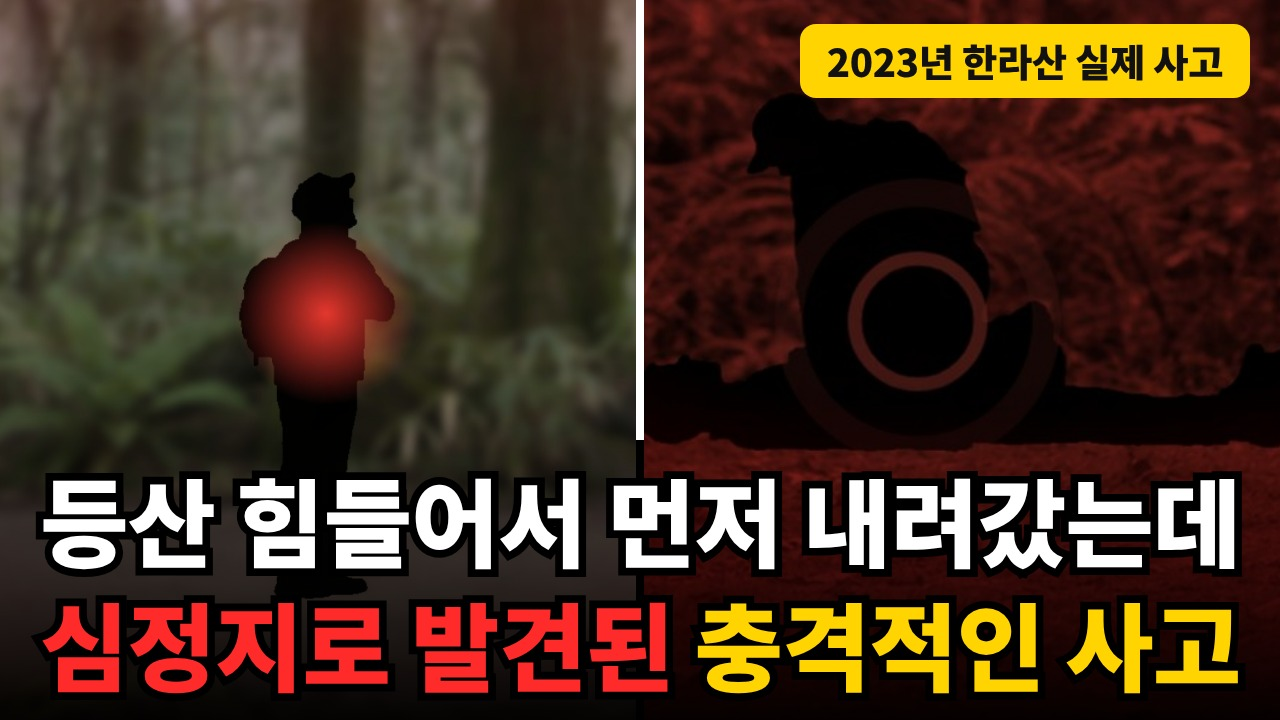
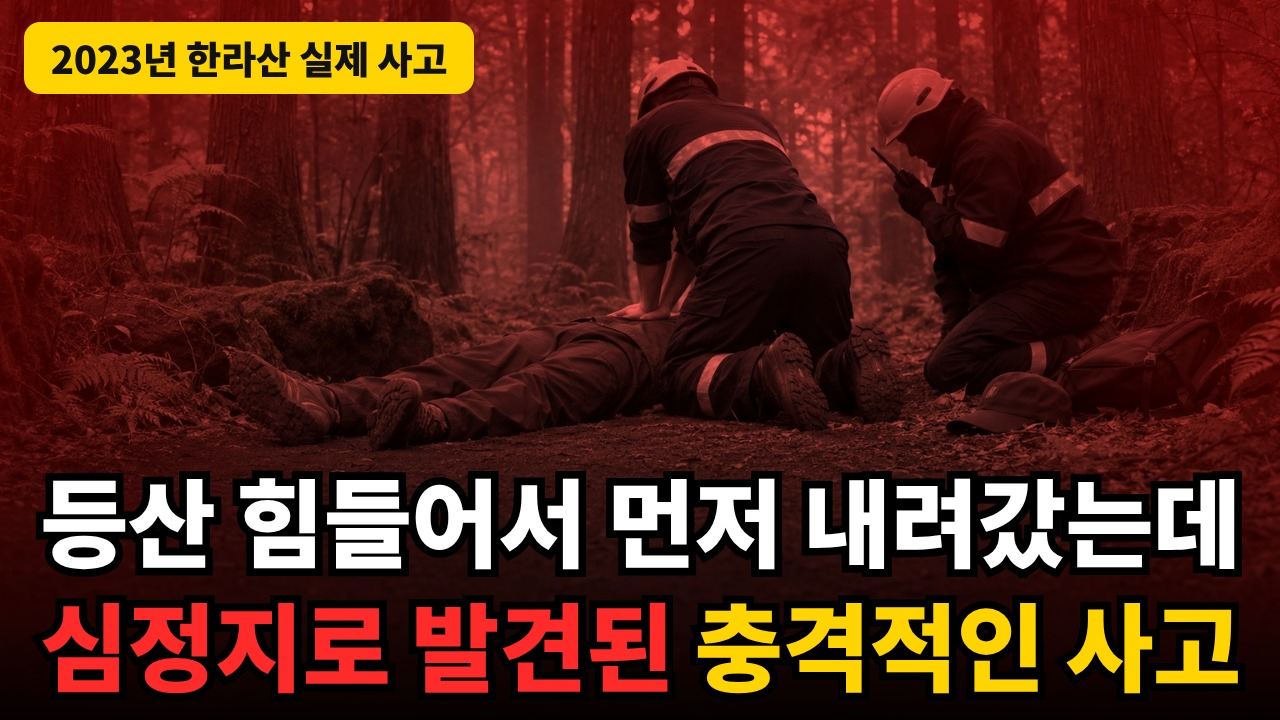
crisis 한라산 편: 썸네일 = 상황 대비 (ChatGPT TH-CONTRAST · 사고 쪽 빨갛게 TH-CONTRAST-FX) · 실험 1 사고 장면(TH-ACCIDENT-FX) · 실험 2 대비 원본 빛깔 · 업로드 시트 v1.4
Claude-Session: https://claude.ai/code/session_01PYG2MrtkzTLLkg9HhkG35k

diff --git a/crisis/source/hallasan-simjeongji-2026-11/upload.md b/crisis/source/hallasan-simjeongji-2026-11/upload.md
@@ -1,6 +1,7 @@
 # hallasan-simjeongji-2026-11 업로드 시트 (롱폼 · 위기 상황)
 
-버전: v1.3 — 2026-11-27 — 제목·썸네일 문구 = 사용자 문구 「등산 힘들어서 먼저 내려갔는데 / 심정지로 발견된 충격적인 사고」 (사용자 지시 "…제목, 썸네일 문구 둘다 이걸로 가자 그리고 이미지 좀 영상처럼 검은 실루엣, 이펙트로 표현해야지 실사 말고 다시 명령 알려줘") · 썸네일 그림 = 영상 꼴(검은 실루엣 + 효과) — 지금은 완성 영상 장면 프레임, ChatGPT 실루엣 그림 2장(images_chatgpt_thumb.md v2.0)이 오면 바꿈.
+버전: v1.4 — 2026-11-27 — 썸네일 = 상황 대비 그림 (사용자 지시 "이미지 올렸어 확인해서 썸네일 다시 만들어 상황 대비되는 이미지로" — ChatGPT TH-CONTRAST · TH-ACCIDENT, 사고 쪽은 빨갛게).
+이전 v1.3 — 2026-11-27 — 제목·썸네일 문구 = 사용자 문구 「등산 힘들어서 먼저 내려갔는데 / 심정지로 발견된 충격적인 사고」 (사용자 지시 "…제목, 썸네일 문구 둘다 이걸로 가자 그리고 이미지 좀 영상처럼 검은 실루엣, 이펙트로 표현해야지 실사 말고 다시 명령 알려줘") · 썸네일 그림 = 영상 꼴(검은 실루엣 + 효과) — 지금은 완성 영상 장면 프레임, ChatGPT 실루엣 그림 2장(images_chatgpt_thumb.md v2.0)이 오면 바꿈.
 이전 v1.2 — 2026-11-27 — 제목·썸네일 문구 = 사용자 문구 (사용자 지시 "등산 힘들어서 먼저 내려갔는데... / 고작 1시간만에 싸늘한 시체로 발견됐다 이렇게 문구, 제목 변경하고 이미지도 사고 난 이미지로 해" — 둘째 줄은 보도와 맞게 사용자가 '심정지로 발견됐다'를 고름) · 썸네일 그림 = 사고 장면 · 대비(먼저 내려감 | 사고) ("…대비하는거랑 2개 만들어봐" — ChatGPT 새 그림 `images_chatgpt_thumb.md` 오기 전엔 이 편 재연 사진).
 이전 v1.1 — 2026-11-27 — 제목·썸네일 문구를 공통 규칙에 맞춤 (사용자 지시 "아 그리고 뭐 또 제목, 썸네일 수정할거 있다며 공통 규칙에 맞게 수정해" — 제목 낱말이 사용자 도입 첫 두 문장에 · 썸네일 낱말이 첫 문장에 · `script_rules_check` ✅ ✅) · 페르소나 title 5~8회차 (8회차 ✅ — 둘 다 피드에서 고르고 누름) · 설명란 첫 줄도 제목 낱말로.
 이전 v1.0 — 2026-11-27 — 최초 (사용자 지시 "음성 확인해서 영상 만들어서 말풍선좀 사람 움직임에 따라서 똑같이 움직이도록 수정해야돼 꼭 수정 다하면 업로드 준비해") · 위기 상황 채널 첫 업로드 시트 (꼴 = `psychology/source/jakku-juneun-2026-11-25/upload.md` · `guides/upload_guide.md` 13번).
@@ -16,14 +17,14 @@
 ```
 - 사용자 문구 그대로 ('/' 만 뺌 — 문장부호 없이 모든 화면 2줄 ✅ · 33자). 낱말 근거: 등산 영상 79편 — '등산' 28편 · '사고' 10편(가운데값 15.4만) · '충격적인' 4편(가운데값 46.3만, 모두 상위 1/4) (`crisis/result/related/hiking_words_2026-11-27.md`).
 - 규칙 점검: 썸네일 연결 ✅('등산') · 제목 낱말 → 도입 첫 두 문장 ⚠ (사용자 문구라 그대로).
-- 짝 썸네일 `thumbnail_1.jpg` (「등산 힘들어서 먼저 내려갔는데 / **심정지로 발견된**(빨강) **충격적인 사고**(노랑)」 + 꼬리표 「2023년 한라산 실제 사고」 — 그림 = 영상 꼴: 지금 `images/TH-FRAME-STOP.jpg`(완성 영상 문장 1 장면 — 가슴에 빨간 빛을 안고 멈춘 검은 실루엣, 자막 없이 다시 찍음) → ChatGPT `images/TH-SIL-ACCIDENT.jpg` 가 오면 바꿈).
+- 짝 썸네일 `thumbnail_1.jpg` (「등산 힘들어서 먼저 내려갔는데 / **심정지로 발견된**(빨강) **충격적인 사고**(노랑)」 + 꼬리표 「2023년 한라산 실제 사고」(가운데 위 — 사람을 가리지 않음) — 그림 = **상황 대비**: ChatGPT `images/TH-CONTRAST.jpg` 왼쪽 혼자 먼저 내려가는 사람(제 빛깔) \| 오른쪽 같은 숲길의 사고 — 가슴 압박(빨갛게 물들임 + 가장자리 빨간 빛 → `TH-CONTRAST-FX.jpg`) + 문구 코드 `thumb.mjs`).
 
 ## 1-1. 실험안 — 스튜디오 '테스트 및 비교'용 (API 로 올리지 않음 · 공개 뒤 사용자가 넣음)
 
 | 안 | 제목 | 썸네일 |
 |---|---|---|
-| 실험 1 | (본안과 같음) | `thumbnail_2.jpg` — **대비**: 왼쪽 멈춘 실루엣(빨간 가슴 빛) \| 오른쪽 가슴 압박 실루엣(빨갛게) · 같은 낱말 (지금 영상 장면 → ChatGPT `images/TH-SIL-CONTRAST.jpg` 가 오면 바꿈) |
-| 실험 2 | (본안과 같음) | `thumbnail_3.jpg` — 가슴 압박 실루엣(영상 문장 64 장면을 빨갛게) · 꼬리표 없음 · 강조 색 바꿈(노랑/흰) |
+| 실험 1 | (본안과 같음) | `thumbnail_2.jpg` — 사고 장면만: ChatGPT `TH-ACCIDENT.jpg`(가슴 압박 · 빨갛게 → `TH-ACCIDENT-FX.jpg`) · 꼬리표 왼쪽 위 |
+| 실험 2 | (본안과 같음) | `thumbnail_3.jpg` — 상황 대비 그대로의 빛깔(효과 없음) · 꼬리표 없음 · 강조 색 바꿈(노랑/흰) |
 - 글이 다른 실험 제목은 만들지 않음. 본안 하나로 썸네일만 비교.
 
 ## 2. 설명란 (그대로 복사)

diff --git a/crisis/source/hallasan-simjeongji-2026-11/images_chatgpt_thumb.md b/crisis/source/hallasan-simjeongji-2026-11/images_chatgpt_thumb.md
@@ -1,7 +1,7 @@
 # hallasan-simjeongji-2026-11 — 썸네일 그림 2장 (ChatGPT용 · 1번부터 차례로 모두)
 
 작성: v2.0 — 2026-11-27 — 영상과 같은 꼴로 다시 (사용자 지시 "이미지 좀 영상처럼 검은 실루엣, 이펙트로 표현해야지 실사 말고 다시 명령 알려줘") — 사람은 모두 **납작한 검은 실루엣**, 배경은 영상의 재연 숲길, 그 위에 **빨간 빛·심전도 같은 화면 효과**. 1 사고 장면 · 2 대비(먼저 내려가는 모습 | 사고 모습).
-이전 v1.1 — 2026-11-27 — 실사 2장(TH-ACCIDENT · TH-CONTRAST) — 쓰지 않음.
+이전 v1.1 — 2026-11-27 — 실사 2장(TH-ACCIDENT · TH-CONTRAST) — **2026-11-27 17:02 사용자가 이 v1.1 로 만든 그림을 올림 → 지금 썸네일에 씀**(사고 쪽만 코드로 빨갛게). 이 v2.0 실루엣판은 사용자가 원하면 만듦(아직 없음).
 
 문구는 그림에 넣지 않고 Claude 가 코드로 얹는다(`video/render/thumb.mjs` — 「등산 힘들어서 먼저 내려갔는데 / 심정지로 발견된 충격적인 사고」 + 꼬리표 「2023년 한라산 실제 사고」). 그래서 **그림 아래 40% 는 글자 자리**(어두운 흙길만).
 **어떻게 쓰는가** — 1번 → `thumbnail_1`(본안) · 2번 → `thumbnail_2`(실험 1 — 대비). 오기 전에는 완성 영상 장면(자막 없이 다시 찍은 프레임)으로 대신한다.
